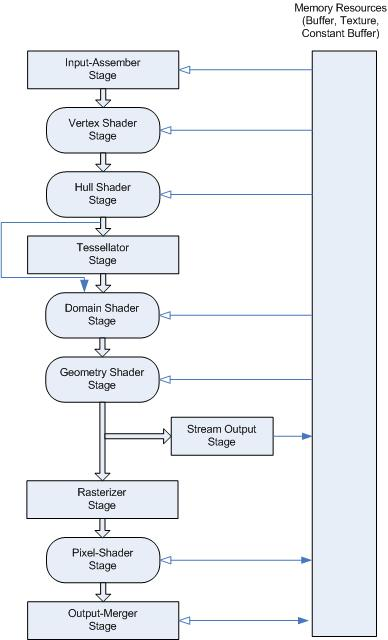
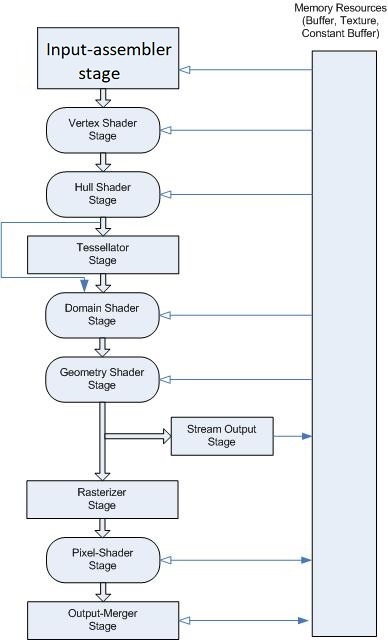
fixing typo in image (#1243)

Changed region(s): [[0.0619, 0.0312, 0.4639, 0.1562]]

diff --git a/desktop-src/direct3d11/overviews-direct3d-11-graphics-pipeline.md b/desktop-src/direct3d11/overviews-direct3d-11-graphics-pipeline.md
@@ -3,7 +3,7 @@ title: Graphics pipeline
 description: This section describes the Direct3D 11 programmable pipeline.
 ms.assetid: 8e7a6f64-0a2b-4ea5-a6a6-7bfb87e27dcc
 ms.topic: article
-ms.date: 05/31/2018
+ms.date: 02/23/2022
 ---
 
 # Graphics pipeline
@@ -16,35 +16,20 @@ The graphics pipeline for Microsoft Direct3D 11 supports the same stages as the 
 
 You can use the Direct3D 11API to configure all of the stages. Stages that feature common shader cores (the rounded rectangular blocks) are programmable by using the [HLSL](/windows/desktop/direct3dhlsl/dx-graphics-hlsl) programming language. As you will see, this makes the pipeline extremely flexible and adaptable.
 
-
 ## In this section
 
-
-
-| Topic                                                                                          | Description                                                                                                                                                                                                                                                                                                                                                                                                                                                                                      |
-|------------------------------------------------------------------------------------------------|--------------------------------------------------------------------------------------------------------------------------------------------------------------------------------------------------------------------------------------------------------------------------------------------------------------------------------------------------------------------------------------------------------------------------------------------------------------------------------------------------|
-| [Input-Assembler Stage](d3d10-graphics-programming-guide-input-assembler-stage.md)<br/> | The Direct3D 10 and higher API separates functional areas of the pipeline into stages; the first stage in the pipeline is the input-assembler (IA) stage.<br/>                                                                                                                                                                                                                                                                                                                             |
-| [Vertex Shader Stage](vertex-shader-stage.md)<br/>                                      | The vertex-shader (VS) stage processes vertices from the input assembler, performing per-vertex operations such as transformations, skinning, morphing, and per-vertex lighting. Vertex shaders always operate on a single input vertex and produce a single output vertex. The vertex shader stage must always be active for the pipeline to execute. If no vertex modification or transformation is required, a pass-through vertex shader must be created and set to the pipeline.<br/> |
-| [Tessellation Stages](direct3d-11-advanced-stages-tessellation.md)<br/>                 | The Direct3D 11 runtime supports three new stages that implement tessellation, which converts low-detail subdivision surfaces into higher-detail primitives on the GPU. Tessellation tiles (or breaks up) high-order surfaces into suitable structures for rendering.<br/>                                                                                                                                                                                                                 |
-| [Geometry Shader Stage](geometry-shader-stage.md)<br/>                                  | The geometry-shader (GS) stage runs application-specified shader code with vertices as input and the ability to generate vertices on output.<br/>                                                                                                                                                                                                                                                                                                                                          |
-| [Stream-Output Stage](d3d10-graphics-programming-guide-output-stream-stage.md)<br/>     | The purpose of the stream-output stage is to continuously output (or stream) vertex data from the geometry-shader stage (or the vertex-shader stage if the geometry-shader stage is inactive) to one or more buffers in memory (see [Getting Started with the Stream-Output Stage](d3d10-graphics-programming-guide-output-stream-stage-getting-started.md)). <br/>                                                                                                                       |
-| [Rasterizer Stage](d3d10-graphics-programming-guide-rasterizer-stage.md)<br/>           | The rasterization stage converts vector information (composed of shapes or primitives) into a raster image (composed of pixels) for the purpose of displaying real-time 3D graphics. <br/>                                                                                                                                                                                                                                                                                                 |
-| [Pixel Shader Stage](pixel-shader-stage.md)<br/>                                        | The pixel-shader stage (PS) enables rich shading techniques such as per-pixel lighting and post-processing. A pixel shader is a program that combines constant variables, texture data, interpolated per-vertex values, and other data to produce per-pixel outputs. The rasterizer stage invokes a pixel shader once for each pixel covered by a primitive, however, it is possible to specify a **NULL** shader to avoid running a shader.<br/>                                          |
-| [Output-Merger Stage](d3d10-graphics-programming-guide-output-merger-stage.md)<br/>     | The output-merger (OM) stage generates the final rendered pixel color using a combination of pipeline state, the pixel data generated by the pixel shaders, the contents of the render targets, and the contents of the depth/stencil buffers. The OM stage is the final step for determining which pixels are visible (with depth-stencil testing) and blending the final pixel colors.<br/>                                                                                              |
-
-
-
- 
+| Topic | Description |
+|-|-|
+| [Input-assembler stage](d3d10-graphics-programming-guide-input-assembler-stage.md)<br/> | The Direct3D 10 and higher API separates functional areas of the pipeline into stages; the first stage in the pipeline is the input-assembler (IA) stage.<br/> |
+| [Vertex shader stage](vertex-shader-stage.md)<br/> | The vertex-shader (VS) stage processes vertices from the input assembler, performing per-vertex operations such as transformations, skinning, morphing, and per-vertex lighting. Vertex shaders always operate on a single input vertex and produce a single output vertex. The vertex shader stage must always be active for the pipeline to execute. If no vertex modification or transformation is required, a pass-through vertex shader must be created and set to the pipeline.<br/> |
+| [Tessellation stages](direct3d-11-advanced-stages-tessellation.md)<br/> | The Direct3D 11 runtime supports three new stages that implement tessellation, which converts low-detail subdivision surfaces into higher-detail primitives on the GPU. Tessellation tiles (or breaks up) high-order surfaces into suitable structures for rendering.<br/> |
+| [Geometry shader stage](geometry-shader-stage.md)<br/> | The geometry-shader (GS) stage runs application-specified shader code with vertices as input and the ability to generate vertices on output.<br/> |
+| [Stream-output stage](d3d10-graphics-programming-guide-output-stream-stage.md)<br/> | The purpose of the stream-output stage is to continuously output (or stream) vertex data from the geometry-shader stage (or the vertex-shader stage if the geometry-shader stage is inactive) to one or more buffers in memory (see [Getting Started with the stream-output stage](d3d10-graphics-programming-guide-output-stream-stage-getting-started.md)). <br/> |
+| [Rasterizer stage](d3d10-graphics-programming-guide-rasterizer-stage.md)<br/> | The rasterization stage converts vector information (composed of shapes or primitives) into a raster image (composed of pixels) for the purpose of displaying real-time 3D graphics. <br/> |
+| [Pixel shader stage](pixel-shader-stage.md)<br/> | The pixel-shader stage (PS) enables rich shading techniques such as per-pixel lighting and post-processing. A pixel shader is a program that combines constant variables, texture data, interpolated per-vertex values, and other data to produce per-pixel outputs. The rasterizer stage invokes a pixel shader once for each pixel covered by a primitive, however, it is possible to specify a **NULL** shader to avoid running a shader.<br/> |
+| [Output-merger stage](d3d10-graphics-programming-guide-output-merger-stage.md)<br/> | The output-merger (OM) stage generates the final rendered pixel color using a combination of pipeline state, the pixel data generated by the pixel shaders, the contents of the render targets, and the contents of the depth/stencil buffers. The OM stage is the final step for determining which pixels are visible (with depth-stencil testing) and blending the final pixel colors.<br/> |
 
 ## Related topics
 
-<dl> <dt>
-
-[Compute Shader](direct3d-11-advanced-stages-compute-shader.md)
-</dt> <dt>
-
-[Programming Guide for Direct3D 11](dx-graphics-overviews.md)
-</dt> </dl>
-
- 
-
+* [Compute shader](direct3d-11-advanced-stages-compute-shader.md)
+* [Programming guide for Direct3D 11](dx-graphics-overviews.md)
